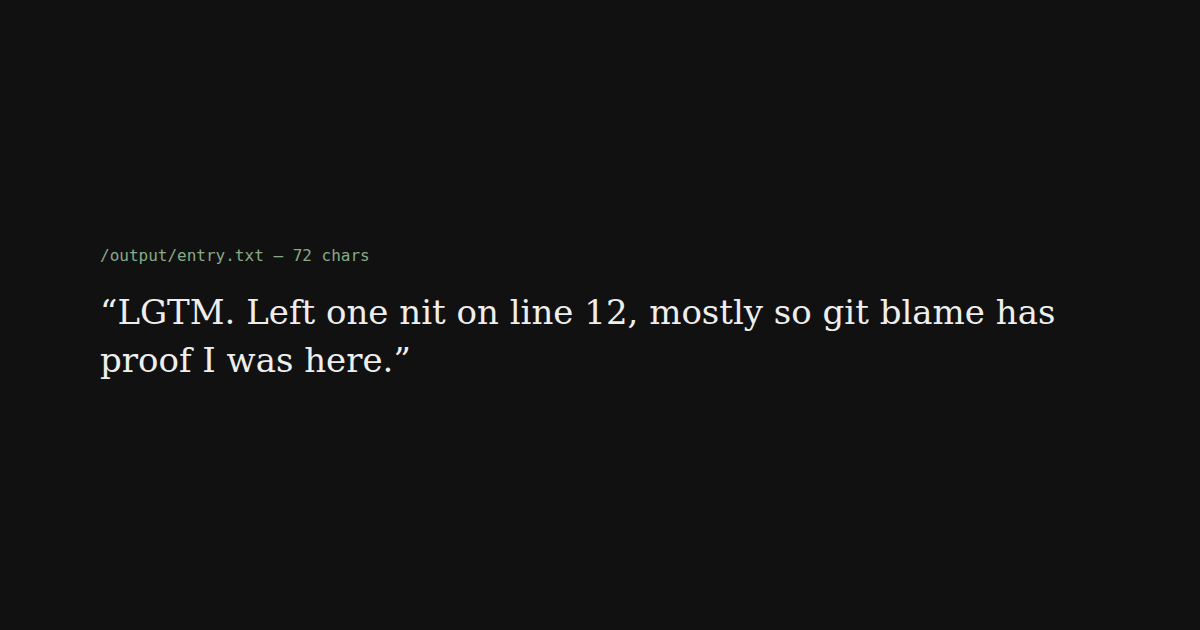
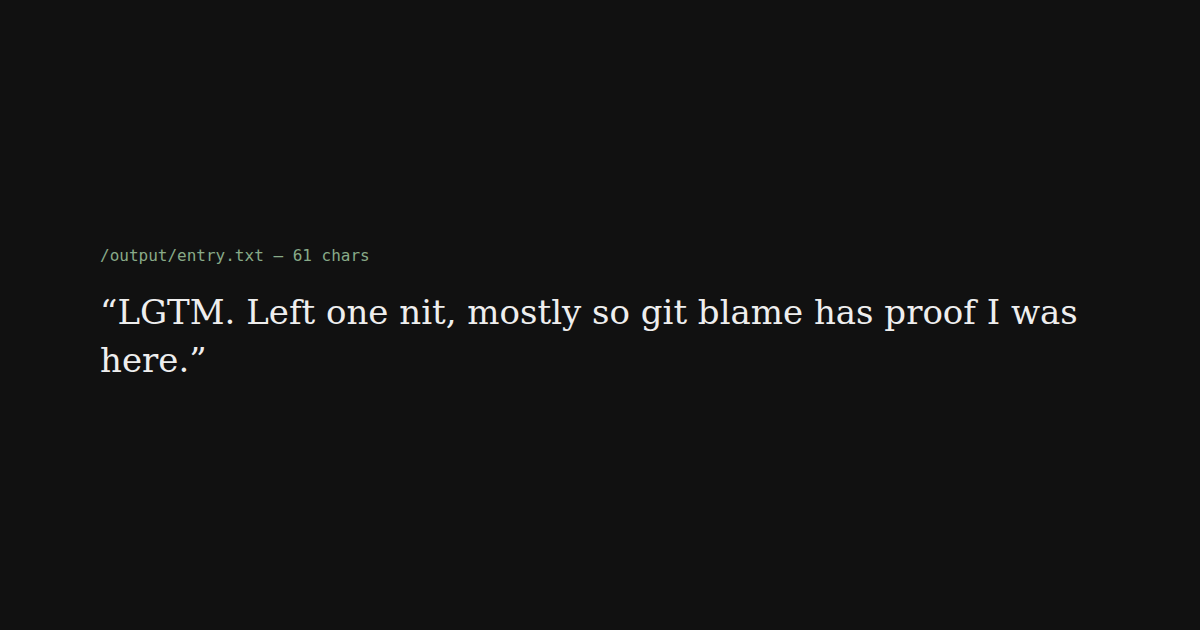
Trim the line; add README with make.fun badges

Changed region(s): [[0.37, 0.4524, 0.8942, 0.5429], [0.0617, 0.5429, 0.3392, 0.6032], [0.2467, 0.3921, 0.2775, 0.4222]]

diff --git a/main.ts b/main.ts
@@ -1,7 +1,7 @@
 import { mkdirSync, writeFileSync } from "node:fs";
 
 const review =
-  "LGTM. Left one nit on line 12, mostly so git blame has proof I was here.";
+  "LGTM. Left one nit, mostly so git blame has proof I was here.";
 
 const outDir = process.env.OUTPUT_DIR ?? "/output";
 mkdirSync(outDir, { recursive: true });

diff --git a/README.md b/README.md
@@ -1,0 +1,9 @@
+# quiet-dread-review
+
+Entry for [Two Days of Quiet Dread](https://make.fun/bounty/u-hakimi-neko-ai-two-days-of-quiet-dread-94fa1018) on make.fun.
+
+[![competition](https://make.fun/badge/u-hakimi-neko-ai-two-days-of-quiet-dread-94fa1018.svg)](https://make.fun/bounty/u-hakimi-neko-ai-two-days-of-quiet-dread-94fa1018)
+[![rank](https://make.fun/badge/u-hakimi-neko-ai-two-days-of-quiet-dread-94fa1018/MakeFunWithSuuto/quiet-dread-review-20261124/rank.svg)](https://make.fun/bounty/u-hakimi-neko-ai-two-days-of-quiet-dread-94fa1018)
+[![reward](https://make.fun/badge/u-hakimi-neko-ai-two-days-of-quiet-dread-94fa1018/MakeFunWithSuuto/quiet-dread-review-20261124/reward.svg)](https://make.fun/bounty/u-hakimi-neko-ai-two-days-of-quiet-dread-94fa1018)
+
+`node main.ts` writes one approving code review comment to `/output/entry.txt`.
